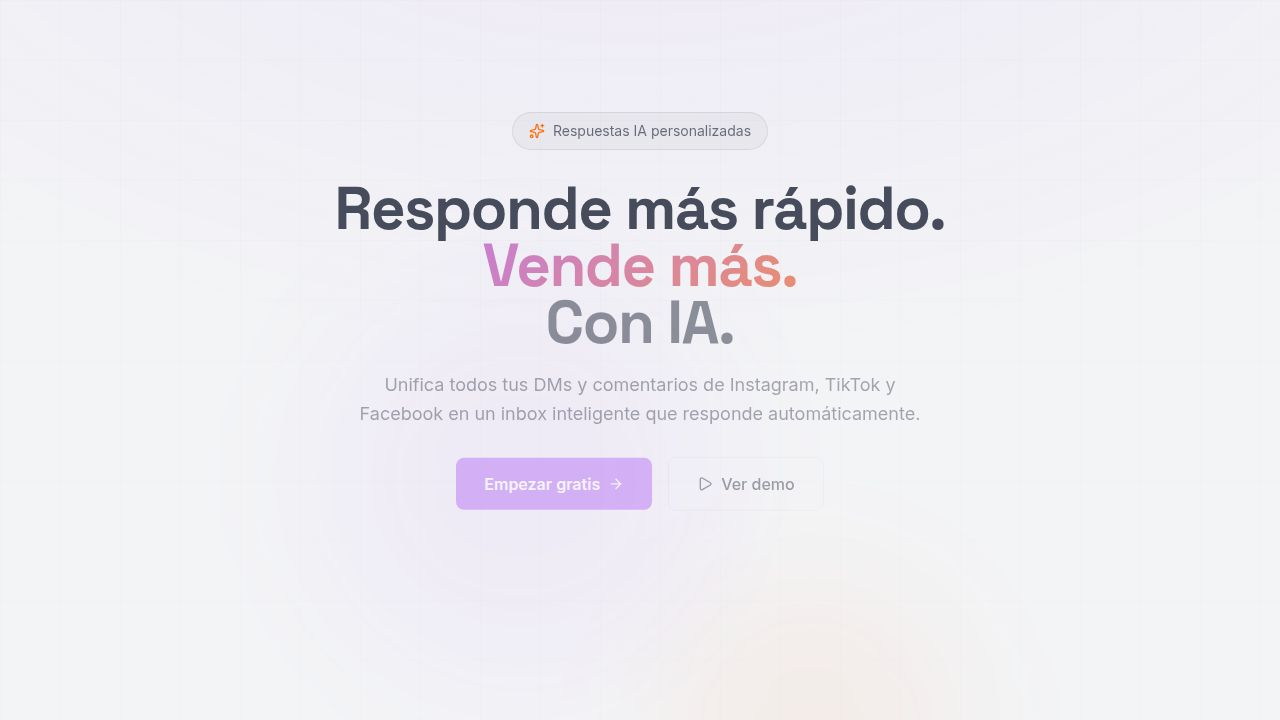
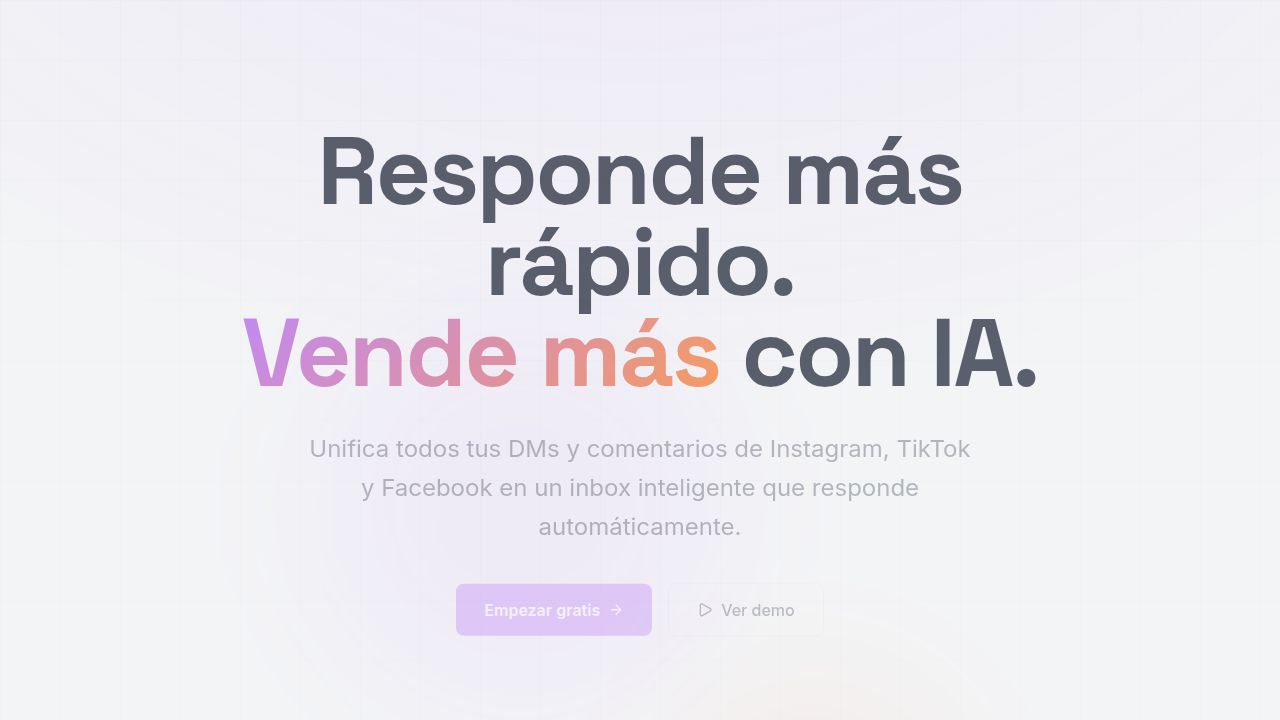
Add realistic profile photos for team agents to the application interface
Update the `FeatureMultiAgentMockup` component in `LandingPage.tsx` to import and display newly generated, realistic profile images for each agent. This involves modifying the `agents` array to include avatar image paths and updating the rendering logic to display the images instead of initials. Additionally, CSS styles are added to `landing.css` for the agent avatar images.

Replit-Commit-Author: Agent
Replit-Commit-Session-Id: 91d5052c-6085-404c-8b1d-9232ab2dc66d
Replit-Commit-Checkpoint-Type: full_checkpoint
Replit-Commit-Event-Id: 595b8fa2-7e3a-4fad-9cbe-caae08e678e3
Replit-Commit-Screenshot-Url: https://storage.googleapis.com/screenshot-production-us-central1/6fbe81c6-b52e-47f2-9930-5e9300c58e42/91d5052c-6085-404c-8b1d-9232ab2dc66d/P3e37yU

diff --git a/client/src/components/landing/LandingPage.tsx b/client/src/components/landing/LandingPage.tsx
@@ -6,6 +6,11 @@ import { GoogleBusinessIcon } from '../GoogleBusinessIcon';
 import avatarMaria from '../../assets/avatars/latina_woman_avatar_headshot.png';
 import avatarCarlos from '../../assets/avatars/hispanic_man_avatar_headshot.png';
 import avatarAna from '../../assets/avatars/european_woman_avatar_headshot.png';
+import agentAna from '@assets/generated_images/ana_agent_headshot_portrait.png';
+import agentLuis from '@assets/generated_images/luis_agent_headshot_portrait.png';
+import agentSara from '@assets/generated_images/sara_agent_headshot_portrait.png';
+import agentCarlos from '@assets/generated_images/carlos_agent_headshot_portrait.png';
+import agentMaria from '@assets/generated_images/maria_agent_headshot_portrait.png';
 import testimonialBettys from '../../assets/testimonial-bettys.jpg';
 import { ParallaxProvider, useParallax, Parallax } from 'react-scroll-parallax';
 import gsap from 'gsap';
@@ -552,11 +557,11 @@ function FeatureMultiAgentMockup() {
   const [visibleAssignments, setVisibleAssignments] = useState<number[]>([]);
   
   const agents = [
-    { name: 'Ana', color: 'bg-pink-500', initials: 'AN', conversations: 12, responseTime: '2m' },
-    { name: 'Luis', color: 'bg-blue-500', initials: 'LU', conversations: 8, responseTime: '3m' },
-    { name: 'Sara', color: 'bg-green-500', initials: 'SA', conversations: 15, responseTime: '1m' },
-    { name: 'Carlos', color: 'bg-orange-500', initials: 'CA', conversations: 6, responseTime: '4m' },
-    { name: 'María', color: 'bg-purple-500', initials: 'MA', conversations: 10, responseTime: '2m' },
+    { name: 'Ana', color: 'bg-pink-500', initials: 'AN', avatar: agentAna, conversations: 12, responseTime: '2m' },
+    { name: 'Luis', color: 'bg-blue-500', initials: 'LU', avatar: agentLuis, conversations: 8, responseTime: '3m' },
+    { name: 'Sara', color: 'bg-green-500', initials: 'SA', avatar: agentSara, conversations: 15, responseTime: '1m' },
+    { name: 'Carlos', color: 'bg-orange-500', initials: 'CA', avatar: agentCarlos, conversations: 6, responseTime: '4m' },
+    { name: 'María', color: 'bg-purple-500', initials: 'MA', avatar: agentMaria, conversations: 10, responseTime: '2m' },
   ];
 
   const recentAssignments = [
@@ -593,13 +598,13 @@ function FeatureMultiAgentMockup() {
         {agents.map((agent, idx) => (
           <motion.div
             key={idx}
-            className={`multiagent-avatar ${agent.color} ${activeAgent === idx ? 'active' : 'inactive'}`}
+            className={`multiagent-avatar ${activeAgent === idx ? 'active' : 'inactive'}`}
             animate={{ 
               scale: activeAgent === idx ? 1.2 : 1
             }}
             transition={{ duration: 0.3 }}
           >
-            <span className="text-white text-xs font-bold">{agent.initials}</span>
+            <img src={agent.avatar} alt={agent.name} className="agent-avatar-img" />
             {activeAgent === idx && (
               <motion.div 
                 className="agent-typing-indicator"

diff --git a/client/src/styles/landing.css b/client/src/styles/landing.css
@@ -3704,6 +3704,13 @@
   z-index: 1;
 }
 
+.agent-avatar-img {
+  width: 100%;
+  height: 100%;
+  border-radius: 50%;
+  object-fit: cover;
+}
+
 .agent-typing-indicator {
   position: absolute;
   bottom: -2px;